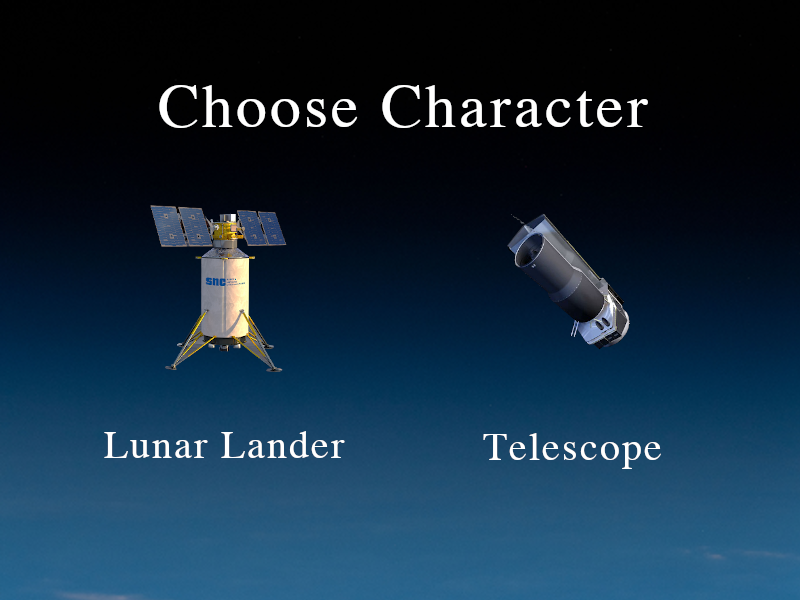
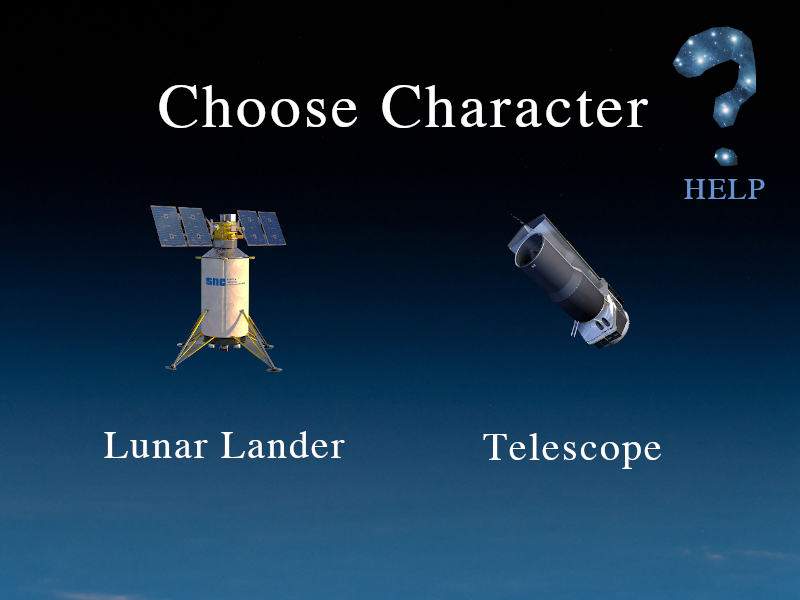
Add Help page

Changed region(s): [[0.8438, 0.03, 0.9688, 0.21], [0.8438, 0.24, 0.9688, 0.33]]

diff --git a/final_project_test/main.c b/final_project_test/main.c
@@ -36,7 +36,8 @@ enum {
     SCENE_SETTINGS = 3,
     H_DEAD_GAMEOVER = 4,
     M_DEAD_GAMEOVER = 5,
-    SCENE_WIN = 6
+    SCENE_WIN = 6,
+    SCENE_HELP = 7
 };
 
 /* Input states */
@@ -93,6 +94,8 @@ ALLEGRO_BITMAP* moon_gameover_background;
 ALLEGRO_BITMAP* settings_choose_char;
 ALLEGRO_BITMAP* ll_line;
 ALLEGRO_BITMAP* tl_line;
+ALLEGRO_BITMAP* m45_line;
+ALLEGRO_BITMAP* help_img;
 
 /* Win Scene*/
 ALLEGRO_BITMAP* win_astronaut;
@@ -315,6 +318,8 @@ void game_init(void) {
     settings_choose_char = al_load_bitmap("chosechar.png");
     ll_line = al_load_bitmap("ll_line.png");
     tl_line = al_load_bitmap("tl_line.png");
+    m45_line = al_load_bitmap("m45-line.png");
+    help_img = al_load_bitmap("help.png");
     /* Win Scene*/
     win_astronaut = al_load_bitmap("winastronaut.png");
     
@@ -629,6 +634,10 @@ void game_draw(void) {
         else if (pnt_in_rect(mouse_x, mouse_y, 500, 220, 635, 350)){
             al_draw_bitmap(tl_line, 494, 205, 0);
         }
+        //help
+        else if (pnt_in_rect(mouse_x, mouse_y, 673, 26, 756, 165)){
+            al_draw_bitmap(m45_line, 664, 0, 0);
+        }
     }
     else if (active_scene == H_DEAD_GAMEOVER){
         al_draw_bitmap(human_gameover_background, 0, 0, 0);
@@ -642,6 +651,9 @@ void game_draw(void) {
     }
     else if (active_scene == SCENE_WIN){
         al_draw_bitmap(win_astronaut, 0, 0, 0);
+    }
+    else if (active_scene == SCENE_HELP){
+        al_draw_bitmap(help_img, 0, 0, 0);
     }
     
     al_flip_display();
@@ -683,6 +695,8 @@ void game_destroy(void) {
     al_destroy_bitmap(settings_choose_char);
     al_destroy_bitmap(ll_line);
     al_destroy_bitmap(tl_line);
+    al_destroy_bitmap(m45_line);
+    al_destroy_bitmap(help_img);
     
     /*win scene*/
     al_destroy_bitmap(win_astronaut);
@@ -793,6 +807,10 @@ void on_key_down(int keycode) {
         if (keycode == ALLEGRO_KEY_ENTER)
             game_change_scene(SCENE_MENU);
     }
+    else if (active_scene == SCENE_HELP) {
+        if (keycode == ALLEGRO_KEY_ENTER)
+            game_change_scene(SCENE_MENU);
+    }
 }
 
 void on_mouse_down(int btn, int x, int y) {
@@ -817,6 +835,10 @@ void on_mouse_down(int btn, int x, int y) {
             else if (pnt_in_rect(x, y, 500, 220, 635, 350)){
                 character_flag=0;
                 game_change_scene(SCENE_MENU);
+            }
+            //help
+            else if (pnt_in_rect(x, y, 673, 26, 756, 165)){
+                game_change_scene(SCENE_HELP);
             }
         }
     }
